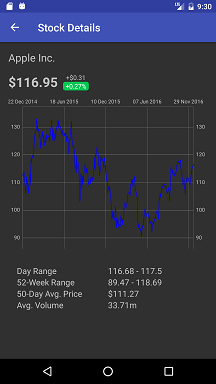
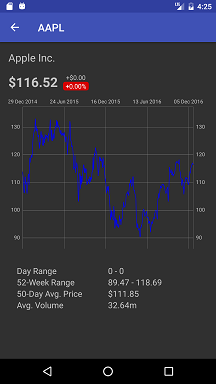
Use database to handle the addition of a new stock

diff --git a/app/src/main/java/com/udacity/stockhawk/sync/QuoteSyncJob.java b/app/src/main/java/com/udacity/stockhawk/sync/QuoteSyncJob.java
@@ -9,9 +9,12 @@ import android.content.Intent;
 import android.database.Cursor;
 import android.net.ConnectivityManager;
 import android.net.NetworkInfo;
+import android.util.Log;
 
+import com.udacity.stockhawk.R;
 import com.udacity.stockhawk.data.Contract;
 import com.udacity.stockhawk.data.PrefUtils;
+import com.udacity.stockhawk.utilities;
 
 import java.io.IOException;
 import java.util.ArrayList;
@@ -61,7 +64,7 @@ public final class QuoteSyncJob {
                     Contract.Quote.COLUMN_SYMBOL + " ASC"
             );
 
-            if (cursor.getCount()>0) {
+            if (cursor.getCount() > 0) {
                 mStockArrayDb = new ArrayList<String>();
                 while (cursor.moveToNext()) {
                     String stockSymbol = cursor.getString(cursor.getColumnIndexOrThrow(Contract.Quote.COLUMN_SYMBOL));
@@ -153,10 +156,80 @@ public final class QuoteSyncJob {
         }
     }
 
+    static void getQuotesForNewStock(final Context context, final String stockSymbol) {
+
+        Calendar from = Calendar.getInstance();
+        Calendar to = Calendar.getInstance();
+        from.add(Calendar.YEAR, -YEARS_OF_HISTORY);
+
+        try {
+            Stock stock = YahooFinance.get(stockSymbol);
+            StockQuote quote = stock.getQuote();
+            if (null == stock || (null == quote.getPrice() && null == quote.getPreviousClose())) {
+                utilities.showToast(context, stockSymbol, R.string.nonexistent_or_suspended_stock_msg);
+            } else {
+                float price = quote.getPrice().floatValue();
+                float change = quote.getChange().floatValue();
+                float percentChange = quote.getChangeInPercent().floatValue();
+                Long averageVolume = quote.getAvgVolume().longValue();
+
+                String dayHigh;
+                if (null != quote.getDayHigh()) {
+                    dayHigh = quote.getDayHigh().toString();
+                } else {
+                    dayHigh = " ";
+                }
+
+                String dayLow;
+                if (null != quote.getDayLow()) {
+                    dayLow = quote.getDayLow().toString();
+                } else {
+                    dayLow = " ";
+                }
+
+                float averagePrice = quote.getPriceAvg50().floatValue();
+                float yearHigh = quote.getYearHigh().floatValue();
+                float yearLow = quote.getYearLow().floatValue();
+                String name = stock.getName();
+
+                List<HistoricalQuote> history = stock.getHistory(from, to, Interval.DAILY);
+
+                StringBuilder historyBuilder = new StringBuilder();
+
+                for (HistoricalQuote it : history) {
+                    historyBuilder.append(it.getDate().getTimeInMillis());
+                    historyBuilder.append(", ");
+                    historyBuilder.append(it.getClose());
+                    historyBuilder.append("\n");
+                }
+
+                ContentValues quoteCV = new ContentValues();
+                quoteCV.put(Contract.Quote.COLUMN_SYMBOL, stockSymbol);
+                quoteCV.put(Contract.Quote.COLUMN_PRICE, price);
+                quoteCV.put(Contract.Quote.COLUMN_PERCENTAGE_CHANGE, percentChange);
+                quoteCV.put(Contract.Quote.COLUMN_ABSOLUTE_CHANGE, change);
+                quoteCV.put(Contract.Quote.COLUMN_HISTORY, historyBuilder.toString());
+                quoteCV.put(Contract.Quote.COLUMN_AVERAGE_VOLUME, averageVolume);
+                quoteCV.put(Contract.Quote.COLUMN_DAY_HIGH, dayHigh);
+                quoteCV.put(Contract.Quote.COLUMN_DAY_LOW, dayLow);
+                quoteCV.put(Contract.Quote.COLUMN_AVERAGE_PRICE, averagePrice);
+                quoteCV.put(Contract.Quote.COLUMN_YEAR_HIGH, yearHigh);
+                quoteCV.put(Contract.Quote.COLUMN_YEAR_LOW, yearLow);
+                quoteCV.put(Contract.Quote.COLUMN_COMPANY_NAME, name);
+
+                context.getContentResolver().insert(Contract.Quote.URI, quoteCV);
+            }
+        } catch (IOException e) {
+            e.printStackTrace();
+            Log.v("TAG", "IOException yahoo");
+        }
+    }
+
     private static void schedulePeriodic(Context context) {
         Timber.d("Scheduling a periodic task");
 
         JobInfo.Builder builder = new JobInfo.Builder(PERIODIC_ID, new ComponentName(context, QuoteJobService.class));
+
 
         builder.setRequiredNetworkType(JobInfo.NETWORK_TYPE_ANY)
                 .setPeriodic(PERIOD)
@@ -181,6 +254,29 @@ public final class QuoteSyncJob {
             Intent nowIntent = new Intent(context, QuoteIntentService.class);
             context.startService(nowIntent);
         } else {
+
+            JobInfo.Builder builder = new JobInfo.Builder(ONE_OFF_ID, new ComponentName(context, QuoteJobService.class));
+
+            builder.setRequiredNetworkType(JobInfo.NETWORK_TYPE_ANY)
+                    .setBackoffCriteria(INITIAL_BACKOFF, JobInfo.BACKOFF_POLICY_EXPONENTIAL);
+
+            JobScheduler scheduler = (JobScheduler) context.getSystemService(Context.JOB_SCHEDULER_SERVICE);
+
+            scheduler.schedule(builder.build());
+        }
+    }
+
+    synchronized public static void addNewStock(Context context, String symbol) {
+
+        ConnectivityManager cm =
+                (ConnectivityManager) context.getSystemService(Context.CONNECTIVITY_SERVICE);
+        NetworkInfo networkInfo = cm.getActiveNetworkInfo();
+        if (networkInfo != null && networkInfo.isConnectedOrConnecting()) {
+            Intent nowIntent = new Intent(context, QuoteIntentService.class);
+            nowIntent.putExtra(Intent.EXTRA_TEXT, symbol);
+            context.startService(nowIntent);
+        } else {
+
             JobInfo.Builder builder = new JobInfo.Builder(ONE_OFF_ID, new ComponentName(context, QuoteJobService.class));
 
             builder.setRequiredNetworkType(JobInfo.NETWORK_TYPE_ANY)

diff --git a/app/src/main/java/com/udacity/stockhawk/data/PrefUtils.java b/app/src/main/java/com/udacity/stockhawk/data/PrefUtils.java
@@ -3,7 +3,6 @@ package com.udacity.stockhawk.data;
 import android.content.Context;
 import android.content.SharedPreferences;
 import android.preference.PreferenceManager;
-import android.widget.Toast;
 
 import com.udacity.stockhawk.R;
 
@@ -34,35 +33,6 @@ public final class PrefUtils {
             return defaultStocks;
         }
         return prefs.getStringSet(stocksKey, new HashSet<String>());
-    }
-
-    public static void editStockPref(Context context, String symbol, Boolean add) {
-        String key = context.getString(R.string.pref_stocks_key);
-        Set<String> stocks = getStocks(context);
-
-        if (add) {
-            if (stocks.contains(symbol.toUpperCase())) {
-                Toast.makeText(context, R.string.duplicate_stocks_msg, Toast.LENGTH_SHORT).show();
-                return;
-            } else {
-                stocks.add(symbol);
-            }
-        } else {
-            stocks.remove(symbol);
-        }
-
-        SharedPreferences prefs = PreferenceManager.getDefaultSharedPreferences(context);
-        SharedPreferences.Editor editor = prefs.edit();
-        editor.putStringSet(key, stocks);
-        editor.apply();
-    }
-
-    public static void addStock(Context context, String symbol) {
-        editStockPref(context, symbol, true);
-    }
-
-    public static void removeStock(Context context, String symbol) {
-        editStockPref(context, symbol, false);
     }
 
     public static String getDisplayMode(Context context) {

diff --git a/app/src/main/java/com/udacity/stockhawk/ui/MainActivity.java b/app/src/main/java/com/udacity/stockhawk/ui/MainActivity.java
@@ -84,7 +84,6 @@ public class MainActivity extends AppCompatActivity implements LoaderManager.Loa
             @Override
             public void onSwiped(RecyclerView.ViewHolder viewHolder, int direction) {
                 String symbol = adapter.getSymbolAtPosition(viewHolder.getAdapterPosition());
-                PrefUtils.removeStock(MainActivity.this, symbol);
                 getContentResolver().delete(Contract.Quote.makeUriForStock(symbol), null, null);
             }
         }).attachToRecyclerView(recyclerView);
@@ -137,7 +136,7 @@ public class MainActivity extends AppCompatActivity implements LoaderManager.Loa
                 Toast.makeText(this, message, Toast.LENGTH_LONG).show();
             }
 
-            PrefUtils.addStock(this, symbol);
+            QuoteSyncJob.addNewStock(this, symbol.toUpperCase());
             QuoteSyncJob.syncImmediately(this);
         }
     }

diff --git a/app/src/main/java/com/udacity/stockhawk/sync/QuoteIntentService.java b/app/src/main/java/com/udacity/stockhawk/sync/QuoteIntentService.java
@@ -15,6 +15,11 @@ public class QuoteIntentService extends IntentService {
     @Override
     protected void onHandleIntent(Intent intent) {
         Timber.d("Intent handled");
-        QuoteSyncJob.getQuotes(getApplicationContext());
+        if (intent.hasExtra(Intent.EXTRA_TEXT)) {
+            String stockSymbol = intent.getStringExtra(Intent.EXTRA_TEXT);
+            QuoteSyncJob.getQuotesForNewStock(getApplicationContext(), stockSymbol);
+        } else {
+            QuoteSyncJob.getQuotes(getApplicationContext());
+        }
     }
 }
